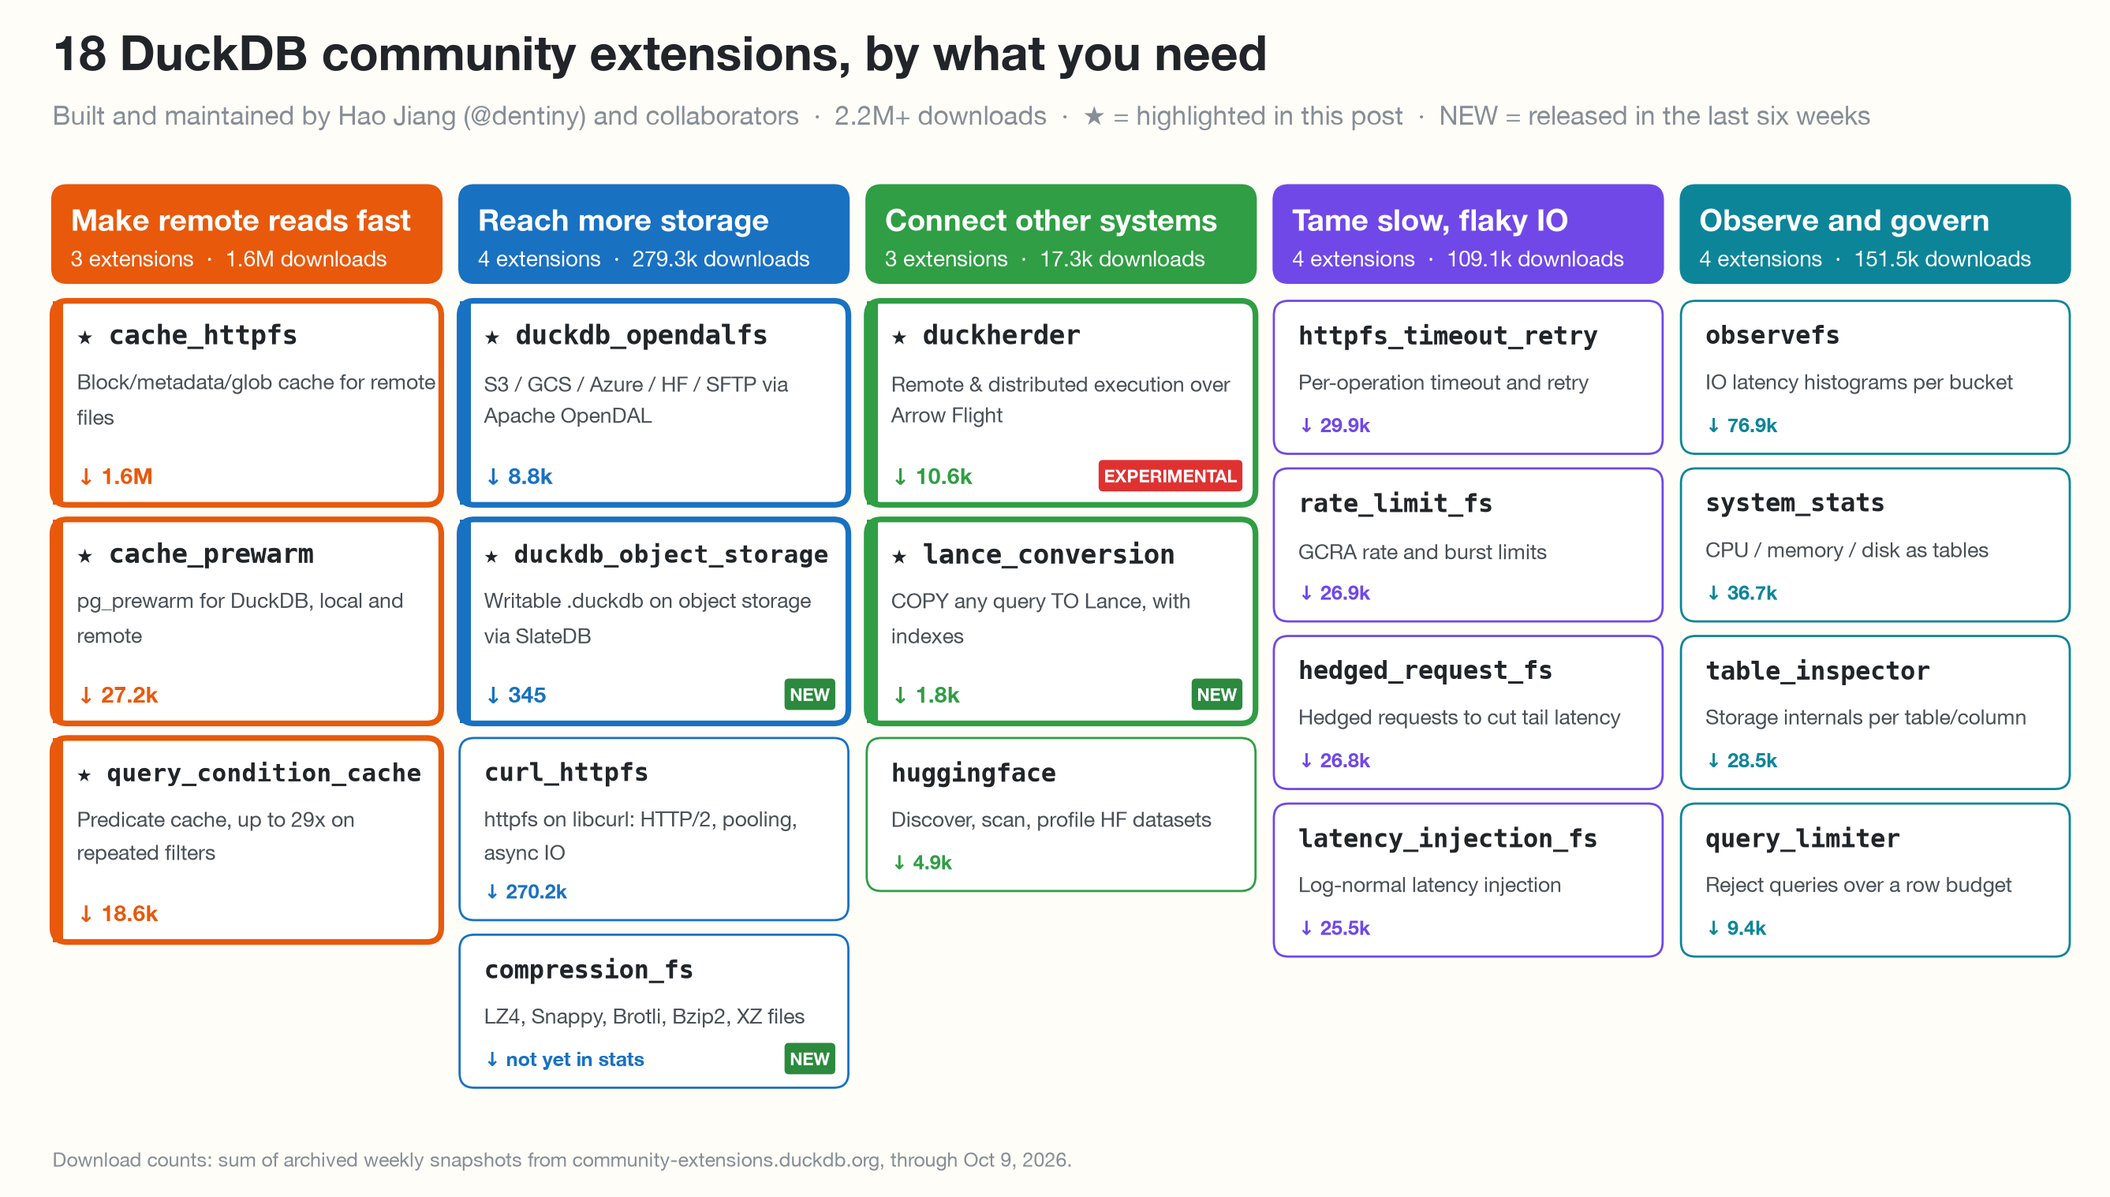
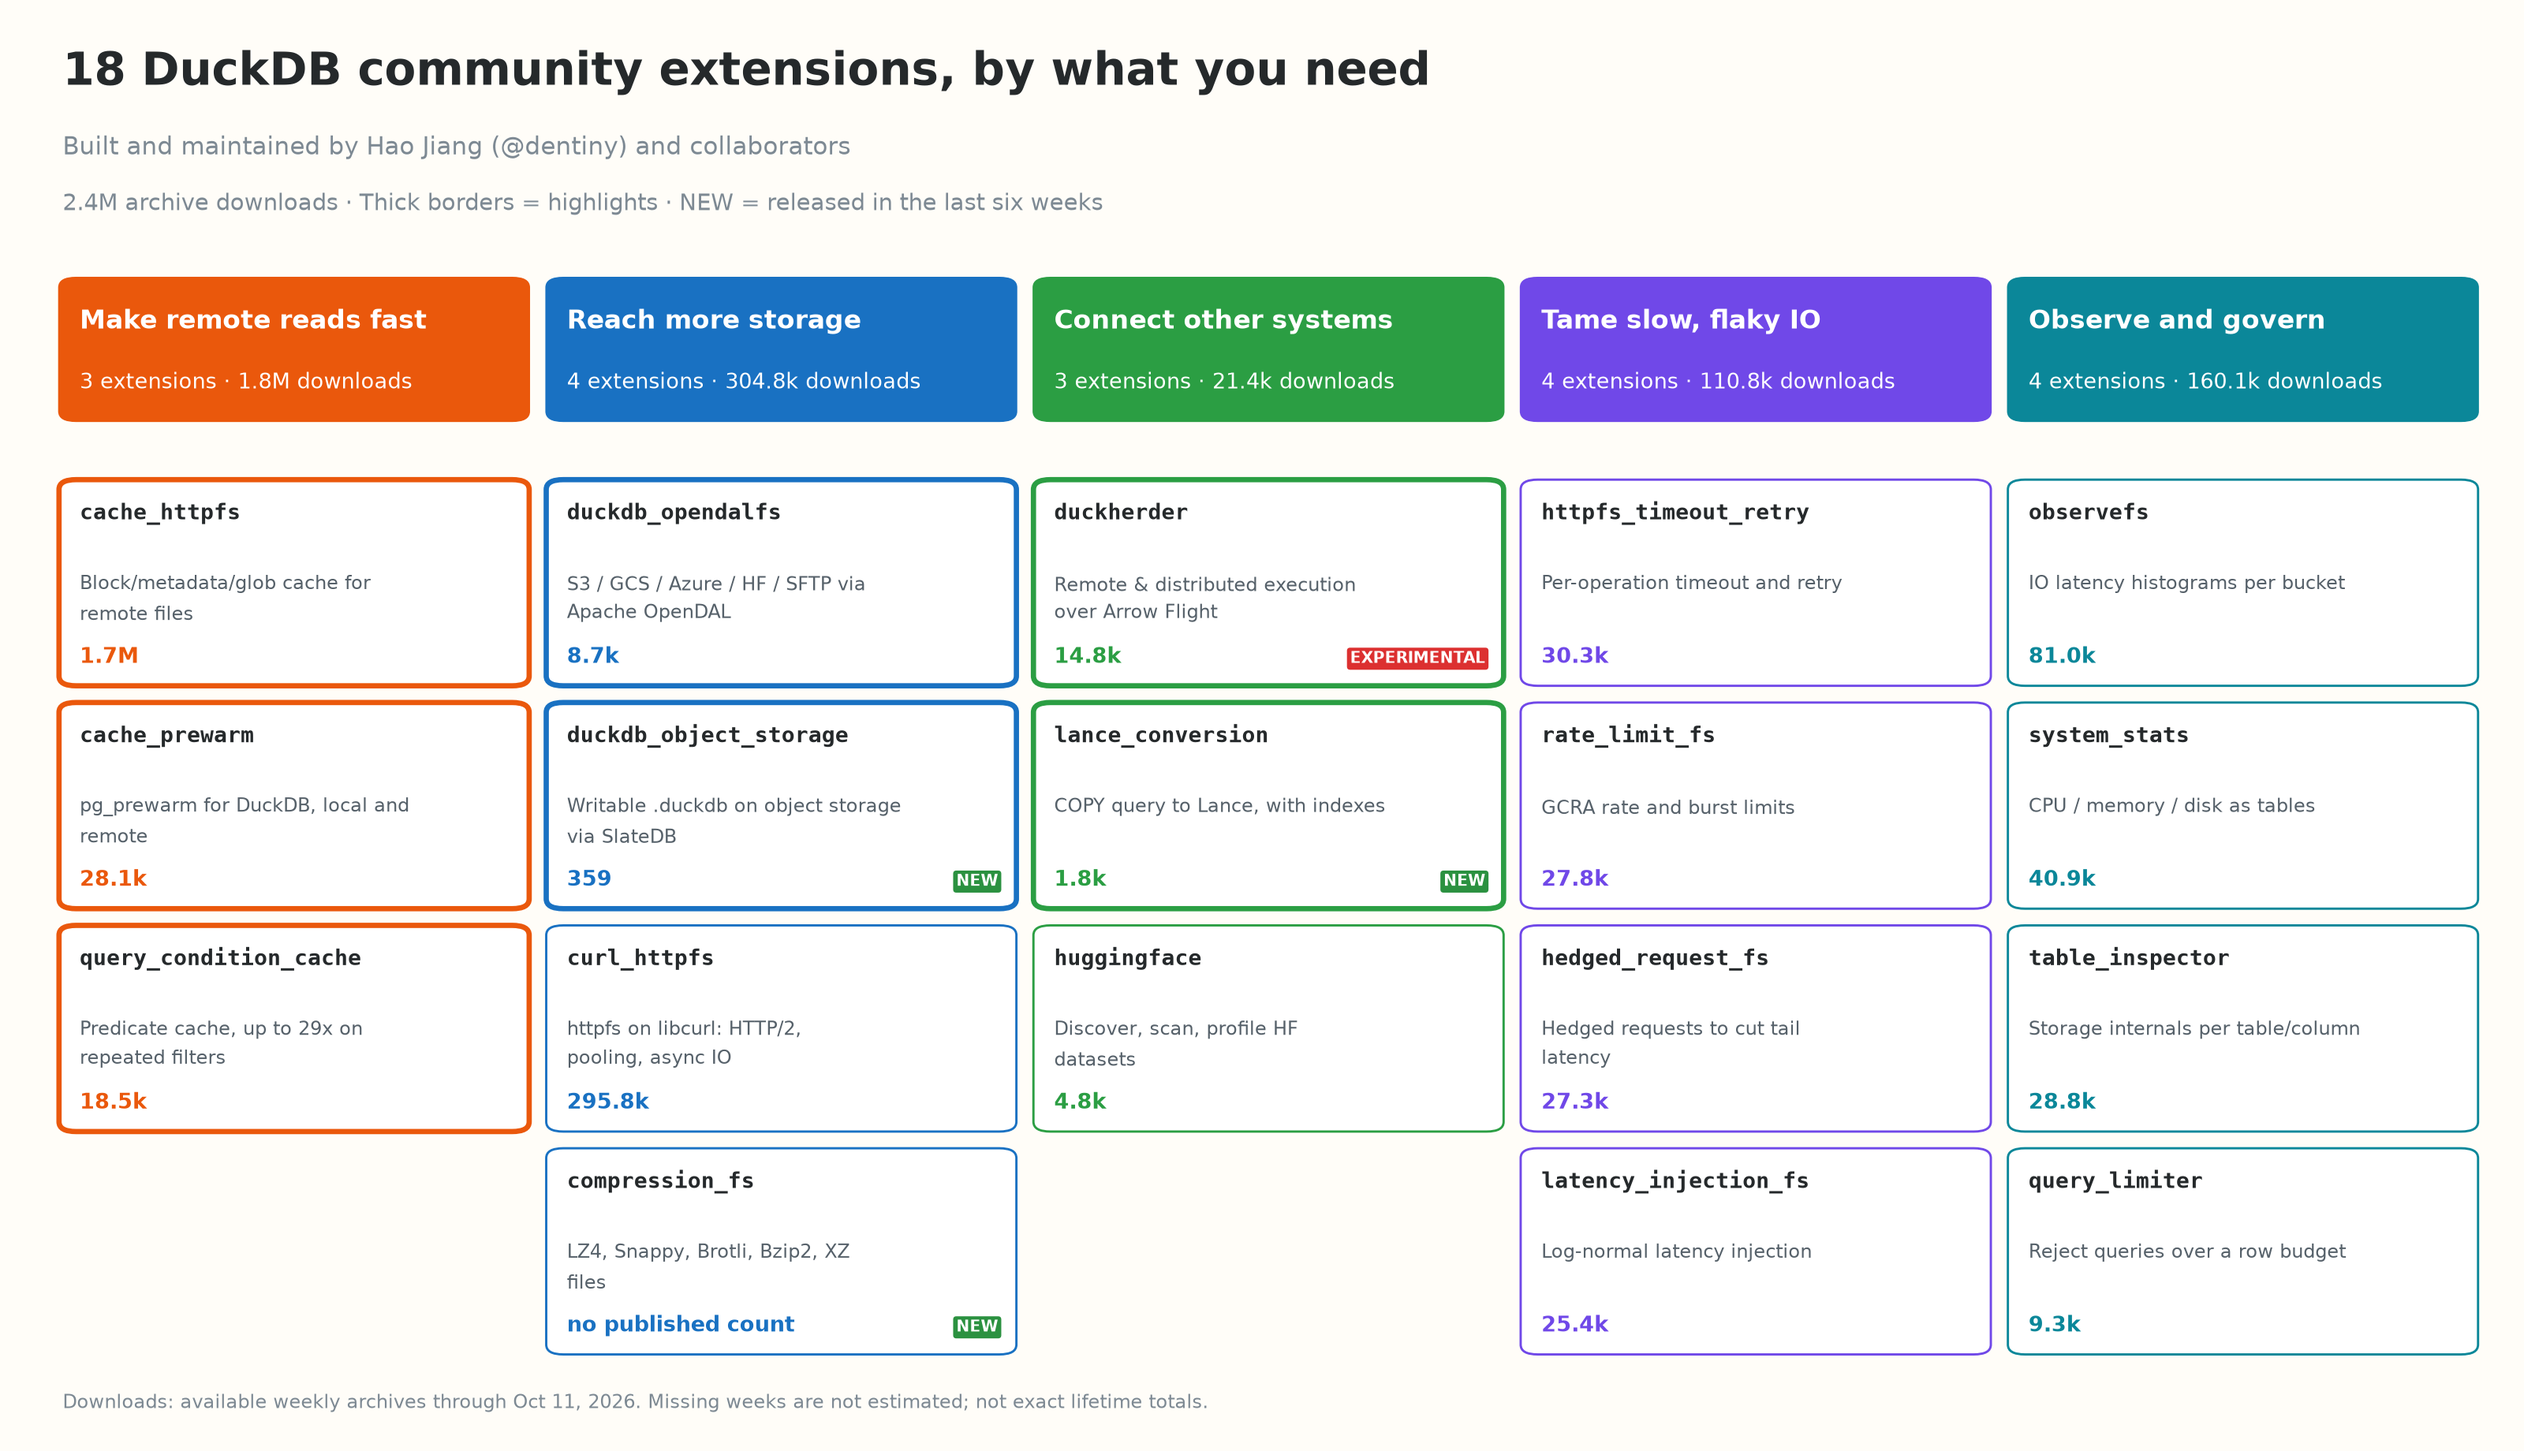
Refresh DuckDB extension download statistics as of October 12, 2026 (#3)

diff --git a/_posts/2026-10-09-duckdb-extensions.md b/_posts/2026-10-09-duckdb-extensions.md
@@ -7,9 +7,9 @@ tags: [DuckDB, Extensions, Storage, Caching]
 
 DuckDB is fast on a laptop SSD. Point it at S3 and you're dealing with round trips, tail latency, throttling and egress bills instead.
 
-In November 2024, a DuckDB user opened [an issue on `httpfs`](https://github.com/duckdb/duckdb-httpfs/issues/4) asking for a disk cache: querying S3 from a laptop was slow, and every query paid for egress again. That issue is still open. Four months later I shipped `cache_httpfs` as a community extension. Last week it was downloaded 58,798 times, fifth among roughly 360 community extensions.
+In November 2024, a DuckDB user opened [an issue on `httpfs`](https://github.com/duckdb/duckdb-httpfs/issues/4) asking for a disk cache: querying S3 from a laptop was slow, and every query paid for egress again. That issue is still open. Four months later I shipped `cache_httpfs` as a community extension. In the latest published rolling week, it was downloaded 56,068 times, sixth among 356 community extensions with reported downloads ([snapshot updated October 12, 2026, 04:00 UTC](https://community-extensions.duckdb.org/downloads-last-week.json)).
 
-That's the pattern behind everything in this post. Since March 2025, my collaborators and I have shipped 18 DuckDB extensions, downloaded more than 2.2 million times. Here's the short version.
+That's the pattern behind everything in this post. Since March 2025, my collaborators and I have shipped 18 DuckDB extensions, with more than 2.3 million downloads recorded in the available weekly archives. Here's the short version.
 
 **TL;DR**
 
@@ -79,7 +79,7 @@ Each highlight follows the same pattern: what it fixes, a picture, the SQL to tr
 
 ### [`cache_httpfs`](https://github.com/dentiny/duck-read-cache-fs): a persistent read cache for remote files {#cache-httpfs}
 
-DuckDB's built-in file cache lives in memory and disappears when the process exits. `cache_httpfs` is a drop-in replacement for `httpfs` that keeps **data blocks, metadata, file handles and glob results** on local disk, and fetches large reads in parallel. With 1.6 million downloads, it has been in the community top 10 every archived week since March 2026.
+DuckDB's built-in file cache lives in memory and disappears when the process exits. `cache_httpfs` is a drop-in replacement for `httpfs` that keeps **data blocks, metadata, file handles and glob results** on local disk, and fetches large reads in parallel. With more than 1.7 million downloads recorded in the available weekly archives, it has been in the community top 10 every archived week since March 2026.
 
 ![cache_httpfs benchmark: 10,681 ms with httpfs, 3,934 ms on first read, 31 ms cached](/assets/images/duckdb-extensions/cache-httpfs-benchmark.png)
 
@@ -128,7 +128,7 @@ SELECT prewarm_remote('s3://lake/events/*.parquet');   -- remote files, via cach
 
 ### [`lance_conversion`](https://github.com/dentiny/duckdb_lance_conversion): `COPY` any query to Lance {#lance-conversion}
 
-Getting data into [Lance](https://lancedb.github.io/lance/) usually means exporting files and running a separate conversion job. This extension makes it one `COPY` statement, with indexes built along the way. Released two weeks ago, it already gets about 800 downloads a week.
+Getting data into [Lance](https://lancedb.github.io/lance/) usually means exporting files and running a separate conversion job. This extension makes it one `COPY` statement, with indexes built along the way. Released in September 2026, it recorded 684 downloads in the latest published rolling week.
 
 ![Before: four steps to get data into Lance. With lance_conversion: one COPY statement](/assets/images/duckdb-extensions/lance-pipeline.png)
 
@@ -241,34 +241,38 @@ The other eleven extensions each get a one-line summary on the map at the top of
 
 ## By the numbers
 
-![Per-extension cumulative downloads, log scale](/assets/images/duckdb-extensions/downloads-by-extension.png)
+**Statistics refreshed October 12, 2026, at 18:43:40 PDT (October 13, 01:43:40 UTC).** The latest [rolling-week report](https://community-extensions.duckdb.org/downloads-last-week.json) was updated October 12 at 04:00:07 UTC; these are the latest official figures available at retrieval, rather than a live counter. The 18 extensions have **72,935 reported downloads in that rolling week**.
 
-![Weekly downloads stacked by focus area](/assets/images/duckdb-extensions/weekly-downloads.png)
+Archive totals sum the available [weekly snapshots](https://community-extensions.duckdb.org/download-stats-weekly/2026/41.json) from 2025 week 10 through 2026 week 41 (latest update: October 11, 2026, 04:00:07 UTC). The current week 42 report overlaps week 41, so it is shown separately and is not added to the archive totals. Missing weeks are not estimated, and some older snapshots were taken at irregular intervals: these sums are not exact lifetime totals. DuckDB's [download metrics](https://duckdb.org/community_extensions/download_metrics) estimate downloads across versions and platforms, not unique users. A dash means no published count; totals include only reported values.
+
+![Per-extension downloads summed over available weekly archives through October 11, 2026; total 2,381,700, log scale](/assets/images/duckdb-extensions/downloads-by-extension.png)
+
+![Weekly archived downloads stacked by focus area through October 11, 2026; latest rolling week separately reports 72,935 downloads](/assets/images/duckdb-extensions/weekly-downloads.png)
 
 <details markdown="1">
 <summary>Full table</summary>
 
-| Extension | Group | First release | Downloads |
+| Extension | Group | First release | Archive downloads |
 | --- | --- | --- | ---: |
-| `cache_httpfs` | Remote reads | 2025-03 | 1,598,643 |
-| `curl_httpfs` | Storage | 2025-09 | 270,239 |
-| `observefs` | Observe | 2025-09 | 76,867 |
-| `system_stats` | Observe | 2025-12 | 36,705 |
-| `httpfs_timeout_retry` | Flaky IO | 2026-02 | 29,850 |
-| `table_inspector` | Observe | 2026-02 | 28,452 |
-| `cache_prewarm` | Remote reads | 2026-02 | 27,240 |
-| `rate_limit_fs` | Flaky IO | 2026-02 | 26,884 |
-| `hedged_request_fs` | Flaky IO | 2026-02 | 26,797 |
-| `latency_injection_fs` | Flaky IO | 2026-03 | 25,527 |
-| `query_condition_cache` | Remote reads | 2026-04 | 18,626 |
-| `duckherder` | Other systems | 2025-11 | 10,579 |
-| `query_limiter` | Observe | 2026-07 | 9,439 |
-| `duckdb_opendalfs` | Storage | 2026-07 | 8,764 |
-| `huggingface` | Other systems | 2026-08 | 4,884 |
-| `lance_conversion` | Other systems | 2026-09 | 1,832 |
-| `duckdb_object_storage` | Storage | 2026-09 | 345 |
+| `cache_httpfs` | Remote reads | 2025-03 | 1,738,009 |
+| `curl_httpfs` | Storage | 2025-09 | 295,759 |
+| `observefs` | Observe | 2025-09 | 81,036 |
+| `system_stats` | Observe | 2025-12 | 40,931 |
+| `httpfs_timeout_retry` | Flaky IO | 2026-02 | 30,289 |
+| `table_inspector` | Observe | 2026-02 | 28,790 |
+| `cache_prewarm` | Remote reads | 2026-02 | 28,080 |
+| `rate_limit_fs` | Flaky IO | 2026-02 | 27,831 |
+| `hedged_request_fs` | Flaky IO | 2026-02 | 27,269 |
+| `latency_injection_fs` | Flaky IO | 2026-03 | 25,402 |
+| `query_condition_cache` | Remote reads | 2026-04 | 18,544 |
+| `duckherder` | Other systems | 2025-11 | 14,809 |
+| `query_limiter` | Observe | 2026-07 | 9,339 |
+| `duckdb_opendalfs` | Storage | 2026-07 | 8,676 |
+| `huggingface` | Other systems | 2026-08 | 4,812 |
+| `lance_conversion` | Other systems | 2026-09 | 1,765 |
+| `duckdb_object_storage` | Storage | 2026-09 | 359 |
 | `compression_fs` | Storage | 2026-09 | — |
-| **Total** | | | **2,201,673** |
+| **Total reported** | | | **2,381,700** |
 
 </details>
 
